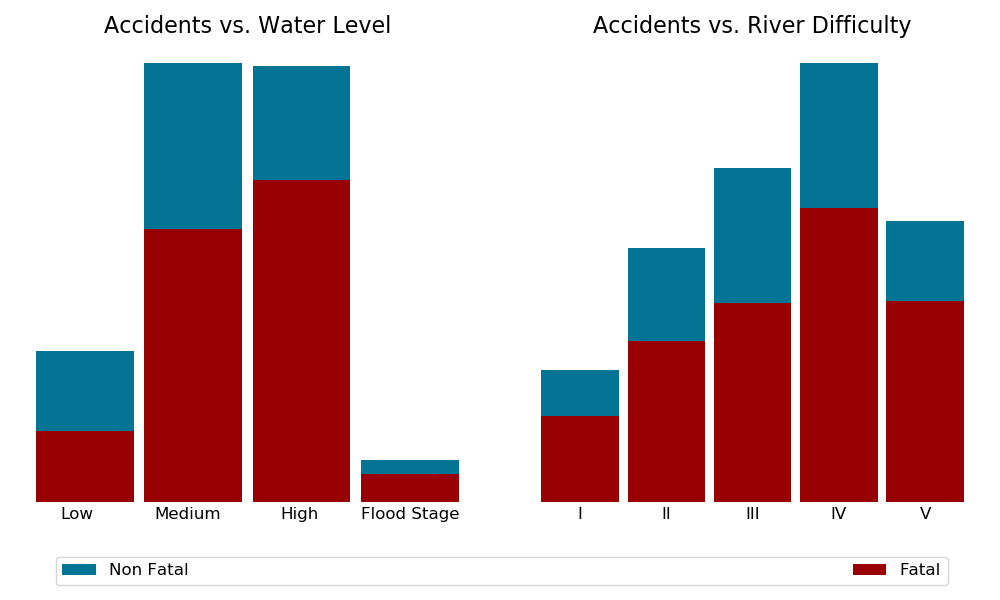
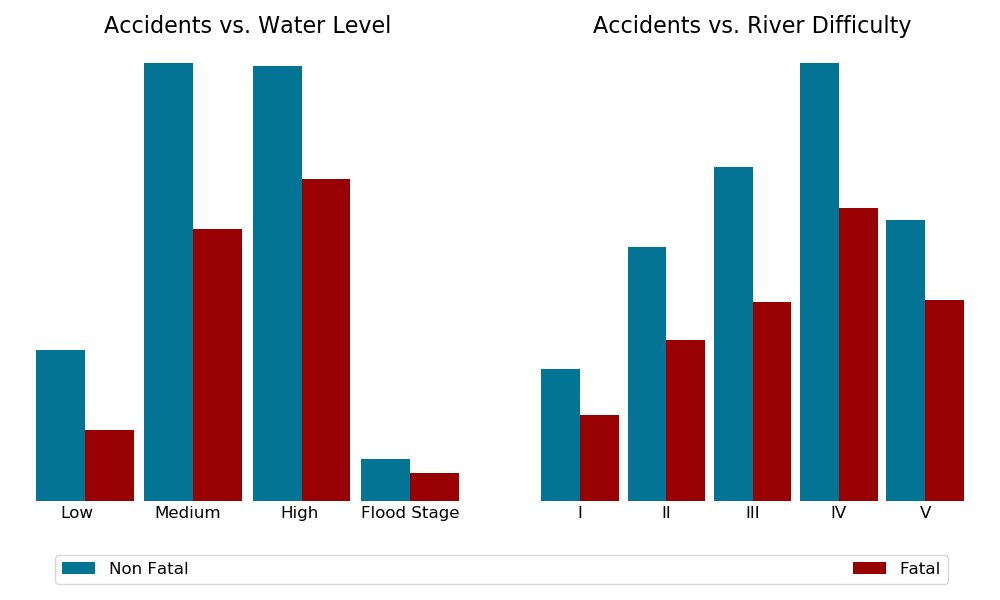
Fix histograms

diff --git a/visuals/histograms.py b/visuals/histograms.py
@@ -9,20 +9,21 @@ df = pd.read_pickle('/Users/hfeiss/dsi/capstone-2/data/clean/clean.pkl')
 death = df[df['F'] == 1]
 
 
-def histogram(ax, data, saveas, title, color,
-              labels=None, bins=None, remove_spines=False, tag=None):
-
-    ax.hist(data, bins=bins, rwidth=0.9, color=color, label=tag)
+def histogram(ax, data, saveas, title, colors,
+              labels=None, bins=None, remove_spines=False, tags=None):
+    ax.hist(data, bins=bins, rwidth=0.9, color=colors, label=tags)
     ax.set_title(f'{title}', fontsize=16)
     if title == 'Accidents vs. Water Level':
         ax.set_xticks(np.array(range(len(labels)))/1.3 + .32)
     if title == 'Accidents vs. River Difficulty':
         ax.set_xticks(np.array(range(len(labels)))/1.25 + 1.4)
     if title == 'Document Lemma Count':
-        ax.set_xticks(np.arange(0, np.max(data),
-                                np.max(data)/(len(labels) - 0.9)))
+        ax.set_xticks(np.arange(0, np.max(data[0]),
+                                np.max(data[0])/(len(labels) - 0.9)))
     if title == 'Accidents vs. Experience Level':
         ax.set_xticks(np.arange(0, 4, 1)*.75 + 0.35)
+    if title == 'Accidents Over Time':
+        ax.set_xticks(pd.to_datetime(labels))
     if labels:
         ax.set_xticklabels(labels, fontsize=12)
     # ax.set_xticklabels(rotation=30)
@@ -37,13 +38,18 @@ def histogram(ax, data, saveas, title, color,
         ax.spines['right'].set_visible(False)
         ax.spines['left'].set_visible(False)
 
-    if tag:
+    if tags:
+        # for bottom legend
         plt.legend(bbox_to_anchor=(-1, -.15, 1.92, 0), ncol=2,
                    mode='expand', loc='center',
                    borderaxespad=0., fontsize=12)
+        
+        # for other bottom legend
         # plt.legend(bbox_to_anchor=(0, -.15, 1, 0), ncol=2,
         #            mode='expand', loc='center',
         #            borderaxespad=0., fontsize=12)
+        
+        # for normal legend
         # plt.legend(fontsize=12)
 
     plt.tight_layout()
@@ -59,88 +65,71 @@ if __name__ == "__main__":
     data.dropna(inplace=True)
     labels = ['1960', '1970', '1980', '1990', '2000', '2010', '2020']
     fig, ax = plt.subplots(figsize=(10, 6))
-    histogram(ax, data, 'dates', 'Accidents Over Time', color='#047495',
+    histogram(ax, data, 'dates', 'Accidents Over Time', colors='#047495',
               labels=labels, bins=15, remove_spines=True)
 
-    level = df['rellevel']
-    level.dropna(inplace=True)
-    lev_labels = ['Low', 'Medium', 'High', 'Flood Stage']
-    level_death = death['rellevel']
-    level_death.dropna(inplace=True)
+    # level = df['rellevel']
+    # level.dropna(inplace=True)
+    # lev_labels = ['Low', 'Medium', 'High', 'Flood Stage']
+    # level_death = death['rellevel']
+    # level_death.dropna(inplace=True)
 
-    diff = df['difficulty']
-    diff.dropna(inplace=True)
-    diff_labels = ['I', 'II', 'III', 'IV', 'V']
-    diff_death = death['difficulty']
-    diff_death.dropna(inplace=True)
+    # diff = df['difficulty']
+    # diff.dropna(inplace=True)
+    # diff_labels = ['I', 'II', 'III', 'IV', 'V']
+    # diff_death = death['difficulty']
+    # diff_death.dropna(inplace=True)
 
-    fig, ax = plt.subplots(1, 2, figsize=(10, 6))
-    histogram(ax[0], level, 'level_diff_death_2',
-              'Accidents vs. Water Level', color='#047495',
-              labels=lev_labels, bins=4, remove_spines=True,
-              tag='Non Fatal')
-    histogram(ax[0], level_death, 'level_diff_death_2',
-              'Accidents vs. Water Level', color='#980002',
-              labels=lev_labels, bins=4, remove_spines=True,
-              tag='Fatal',)
-    histogram(ax[1], diff, 'level_diff_death_2',
-              'Accidents vs. River Difficulty', color='#047495',
-              labels=diff_labels, bins=5, remove_spines=True,
-              tag='Non Fatal')
-    histogram(ax[1], diff_death, 'level_diff_death_2',
-              'Accidents vs. River Difficulty', color='#980002',
-              labels=diff_labels, bins=5, remove_spines=True,
-              tag='Fatal')
+    # fig, ax = plt.subplots(1, 2, figsize=(10, 6))
+    # histogram(ax[0], [level, level_death], 'level_diff_death_2',
+    #           'Accidents vs. Water Level', colors=['#047495', '#980002'],
+    #           labels=lev_labels, bins=4, remove_spines=True,
+    #           tags=['Non Fatal', 'Fatal'])
+    # histogram(ax[1], [diff, diff_death], 'level_diff_death_2',
+    #           'Accidents vs. River Difficulty', colors=['#047495', '#980002'],
+    #           labels=diff_labels, bins=5, remove_spines=True,
+    #           tags=['Non Fatal', 'Fatal'])
 
-    lemmas = pd.read_pickle('/Users/hfeiss/dsi/capstone-2/'
-                            'data/clean/lemmas.pkl')
-    lemmas = pd.DataFrame(lemmas, columns=['description'])
-    lemmas['description'] = lemmas['description'].apply(len)
-    lemmas = lemmas[lemmas['description'] < 2000]
-    labels = ['0', '500', '1000', '1500', '2000']
-    data = lemmas['description']
 
-    death_lemmas = pd.read_pickle('/Users/hfeiss/dsi/capstone-2/'
-                                  'data/clean/death_lemmas.pkl')
-    death_lemmas = pd.DataFrame(death_lemmas, columns=['description'])
-    death_lemmas['description'] = death_lemmas['description'].apply(len)
-    death_lemmas = death_lemmas[death_lemmas['description'] < 2000]
-    death_data = death_lemmas['description']
+    # lemmas = pd.read_pickle('/Users/hfeiss/dsi/capstone-2/'
+    #                         'data/clean/lemmas.pkl')
+    # lemmas = pd.DataFrame(lemmas, columns=['description'])
+    # lemmas['description'] = lemmas['description'].apply(len)
+    # lemmas = lemmas[lemmas['description'] < 2000]
+    # labels = ['0', '500', '1000', '1500', '2000']
+    # data = lemmas['description']
 
-    fig, ax = plt.subplots(figsize=(10, 6))
-    histogram(ax, data, 'description_len_death',
-              'Document Lemma Count', color='#047495',
-              labels=labels, bins=50, remove_spines=True,
-              tag='Non Fatal')
-    histogram(ax, death_data, 'description_len_death',
-              'Document Lemma Count', color='#980002',
-              labels=labels, bins=50, remove_spines=True,
-              tag='Fatal')
+    # death_lemmas = pd.read_pickle('/Users/hfeiss/dsi/capstone-2/'
+    #                               'data/clean/death_lemmas.pkl')
+    # death_lemmas = pd.DataFrame(death_lemmas, columns=['description'])
+    # death_lemmas['description'] = death_lemmas['description'].apply(len)
+    # death_lemmas = death_lemmas[death_lemmas['description'] < 2000]
+    # death_data = death_lemmas['description']
 
-    age = df['age']
-    age.dropna(inplace=True)
-    age_labels = ['0-15', '15-30', '30-45', '45-60', '65-75']
-    age_death = death['age']
-    age_death.dropna(inplace=True)
+    # fig, ax = plt.subplots(figsize=(10, 6))
+    # histogram(ax, [data, death_data], 'description_len_death',
+    #           'Document Lemma Count', colors=['#047495', '#980002'],
+    #           labels=labels, bins=50, remove_spines=True,
+    #           tags=['Non Fatal', 'Fatal'])
 
-    exper = df['experience']
-    exper.dropna(inplace=True)
-    exper_labels = ['None', 'Some', 'Experienced', 'Expert']
-    exper_death = death['experience']
-    exper_death.dropna(inplace=True)
 
-    fig, ax = plt.subplots(1, 2, figsize=(10, 6))
-    histogram(ax[0], exper, 'exper_age_death',
-              'Accidents vs. Experience Level', color='#047495',
-              labels=exper_labels, bins=4, remove_spines=True,
-              tag='Non Fatal',)
-    histogram(ax[0], exper_death, 'exper_age_death',
-              'Accidents vs. Experience Level', color='#980002',
-              labels=exper_labels, bins=4, remove_spines=True,
-              tag='Fatal')
-    histogram(ax[1], age, 'exper_age_death',
-              'Accidents vs. Victim Age', color='#047495',
-              remove_spines=True, tag='Non Fatal')
-    histogram(ax[1], age_death, 'exper_age_death',
-              'Accidents vs. Victim Age', color='#980002',
-              remove_spines=True, tag='Fatal')
+    # age = df['age']
+    # age.dropna(inplace=True)
+    # age_labels = ['0-15', '15-30', '30-45', '45-60', '65-75']
+    # age_death = death['age']
+    # age_death.dropna(inplace=True)
+
+    # exper = df['experience']
+    # exper.dropna(inplace=True)
+    # exper_labels = ['None', 'Some', 'Experienced', 'Expert']
+    # exper_death = death['experience']
+    # exper_death.dropna(inplace=True)
+
+    # fig, ax = plt.subplots(1, 2, figsize=(10, 6))
+    # histogram(ax[0], [exper, exper_death], 'exper_age_death',
+    #           'Accidents vs. Experience Level', colors=['#047495', '#980002'],
+    #           labels=exper_labels, bins=4, remove_spines=True,
+    #           tags=['Non Fatal', 'Fatal'])
+    # histogram(ax[1], [age, age_death], 'exper_age_death',
+    #           'Accidents vs. Victim Age', colors=['#047495', '#980002'],
+    #           remove_spines=True, tags=['Non Fatal', 'Fatal'])
